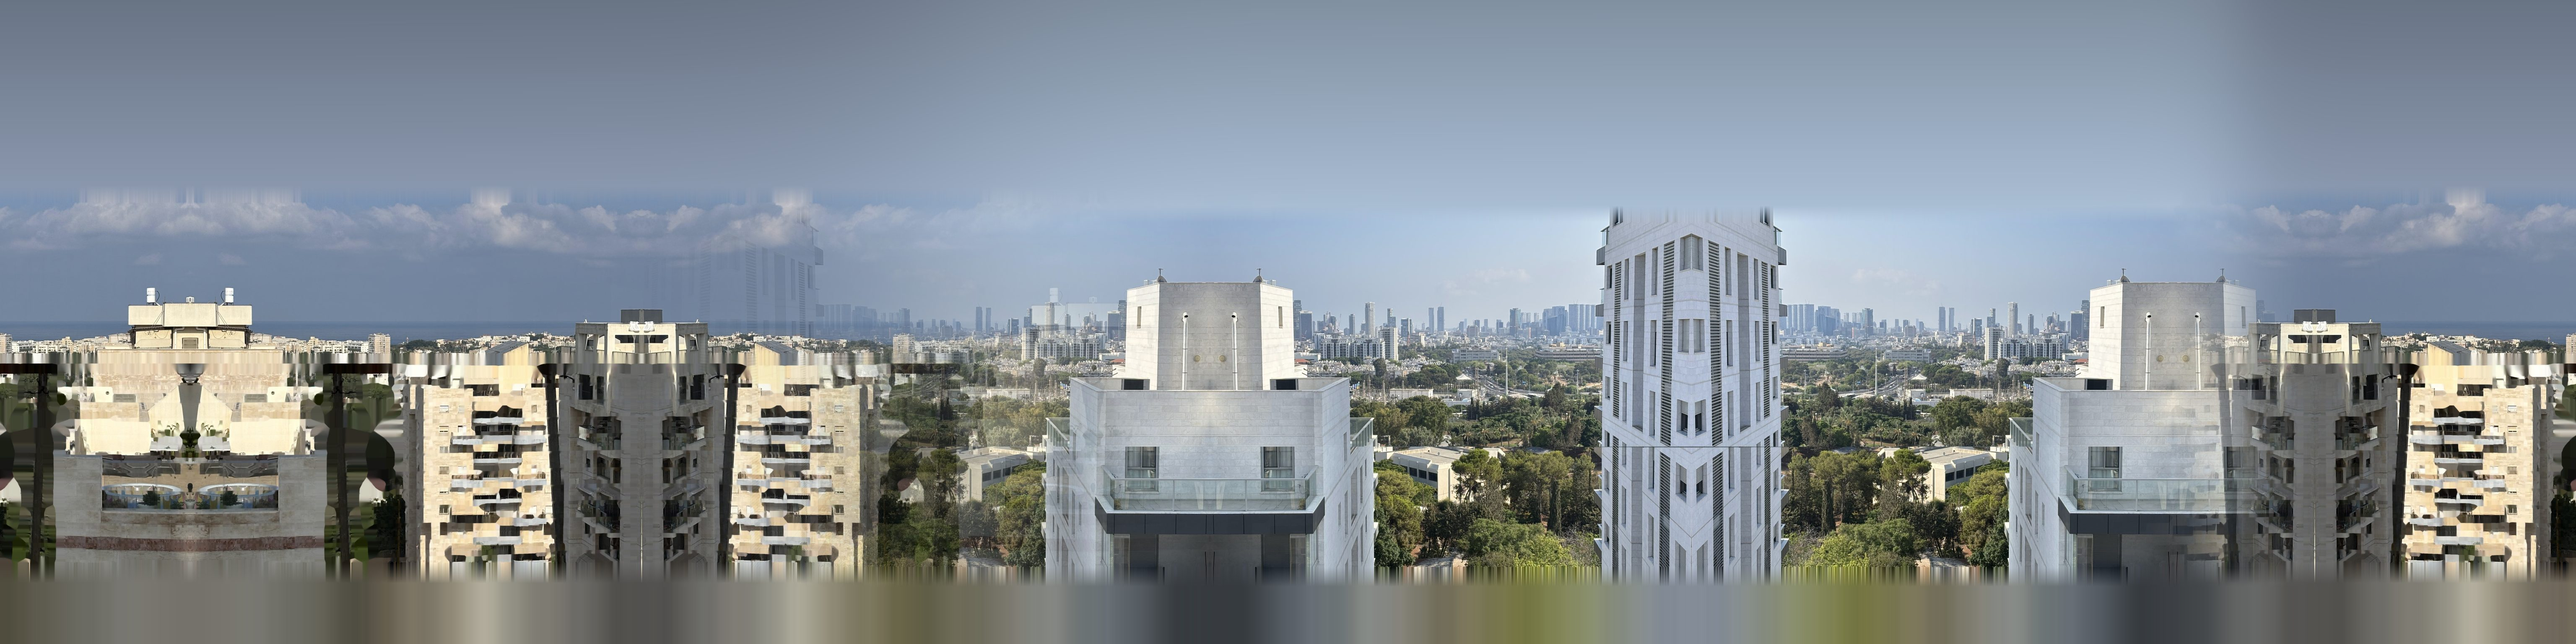
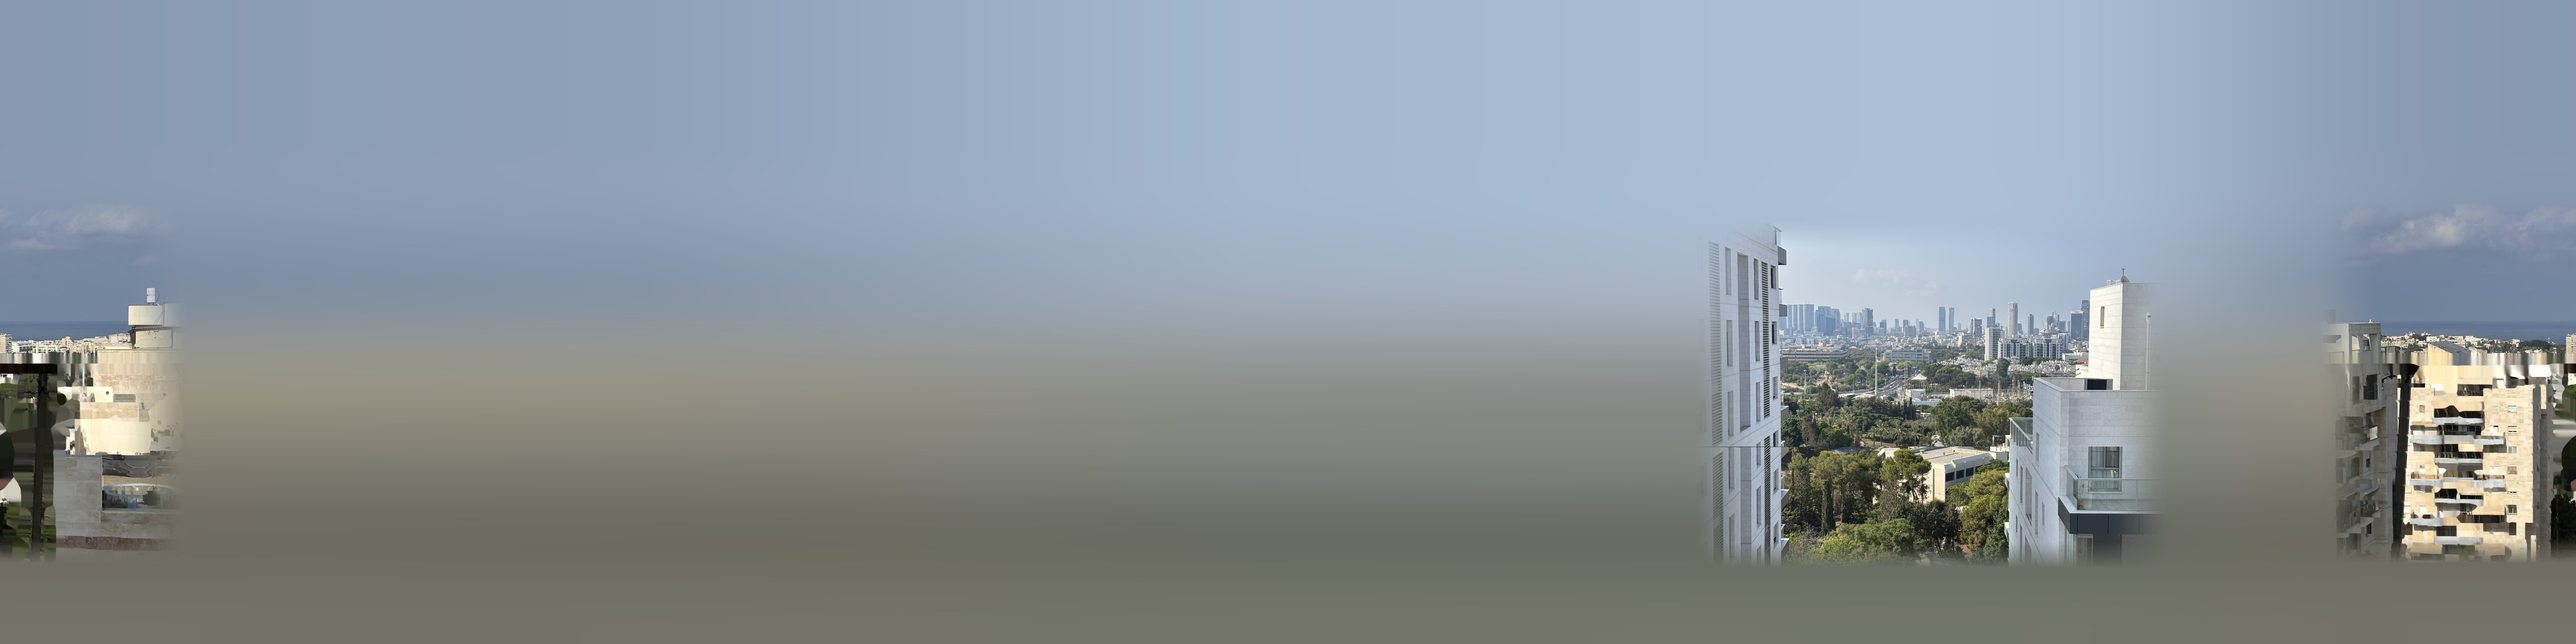
Full quality on every frame; soft haze instead of mirrored fill outside
Claude-Session: https://claude.ai/code/session_01Y3gSvQxUTXT1dstpB9kJ3s

diff --git a/index.html b/index.html
@@ -123,7 +123,7 @@ const nextFrame = () => new Promise(r => requestAnimationFrame(() => setTimeout(
 
 /* ---------------- renderer ---------------- */
 const renderer = new THREE.WebGLRenderer({ antialias: true, powerPreference: 'high-performance' });
-renderer.setPixelRatio(Math.min(devicePixelRatio, isMobile ? 1.6 : 2));
+renderer.setPixelRatio(Math.min(devicePixelRatio, 1.5)); // MSAA makes 1.5× as sharp as 2× at ~half the pixels
 renderer.setSize(innerWidth, innerHeight);
 renderer.outputColorSpace = THREE.SRGBColorSpace;
 renderer.toneMapping = THREE.NeutralToneMapping;
@@ -707,20 +707,15 @@ function makeComposer() {
     composer.addPass(new RenderPass(scene, camera));
     const gtao = new GTAOPass(scene, camera, innerWidth, innerHeight);
     gtao.output = GTAOPass.OUTPUT.Default; gtao.blendIntensity = 0.9;
-    try { gtao.updateGtaoMaterial({ radius: 0.35, distanceExponent: 1.4, thickness: 1, scale: 1 }); } catch (e) {}
+    try { gtao.updateGtaoMaterial({ radius: 0.35, distanceExponent: 1.4, thickness: 1, scale: 1, samples: 10 }); gtao.updatePdMaterial({ samples: 8, radius: 6 }); } catch (e) {}
     composer.addPass(gtao);
     composer.addPass(new OutputPass());
     composer.setPixelRatio(renderer.getPixelRatio());
     composer.setSize(innerWidth, innerHeight);
   } catch (e) { console.warn('AO disabled', e); composer = null; aoOn = false; $('cAO').checked = false; }
 }
-const FULL_PR = Math.min(devicePixelRatio, isMobile ? 1.6 : 2), MOVE_PR = Math.min(devicePixelRatio, isMobile ? 0.85 : 1);
-let curPR = FULL_PR, idle = 0;
-function setPR(p) { if (p === curPR) return; curPR = p; renderer.setPixelRatio(p); renderer.setSize(innerWidth, innerHeight); }
-function draw(fast) {
-  if (fast) { setPR(MOVE_PR); renderer.render(scene, camera); return; }
-  setPR(FULL_PR); if (aoOn && composer) composer.render(); else renderer.render(scene, camera);
-}
+// every frame is rendered at full quality (AO + MSAA); speed comes from merged geometry and a cheaper AO setup
+function draw() { if (aoOn && composer) composer.render(); else renderer.render(scene, camera); }
 
 /* ---------------- camera: stand in the aisle and look around ---------------- */
 const AISLE = { y: 1.6, z: 1.18 };
@@ -907,8 +902,7 @@ function tick() {
     if (Math.abs(d) > 1e-5) { cur[k] += d * 0.2; moving = true; } else cur[k] = tgt[k];
   }
   if (moving) { const f = $('fov'); if (Math.abs(f.value - cur.fov) > 0.5) f.value = Math.round(cur.fov); }
-  if (moving || auto) { idle = 0; apply(); draw(true); drawMap(); dirty = false; }
-  else if (dirty || ++idle === 6) { apply(); draw(false); drawMap(); dirty = false; }
+  if (moving || auto || dirty) { apply(); draw(); drawMap(); dirty = false; }
 }
 
 
